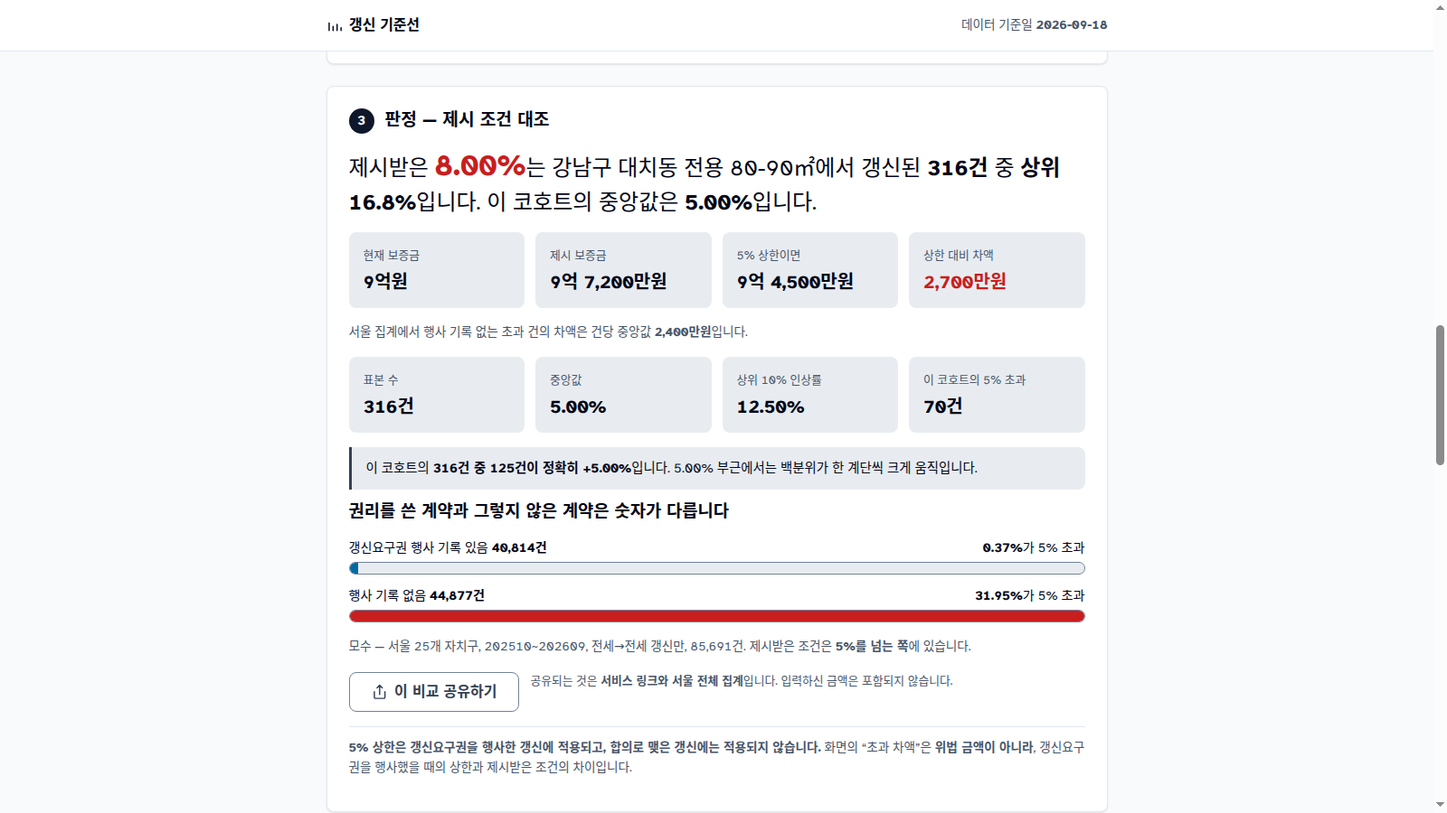
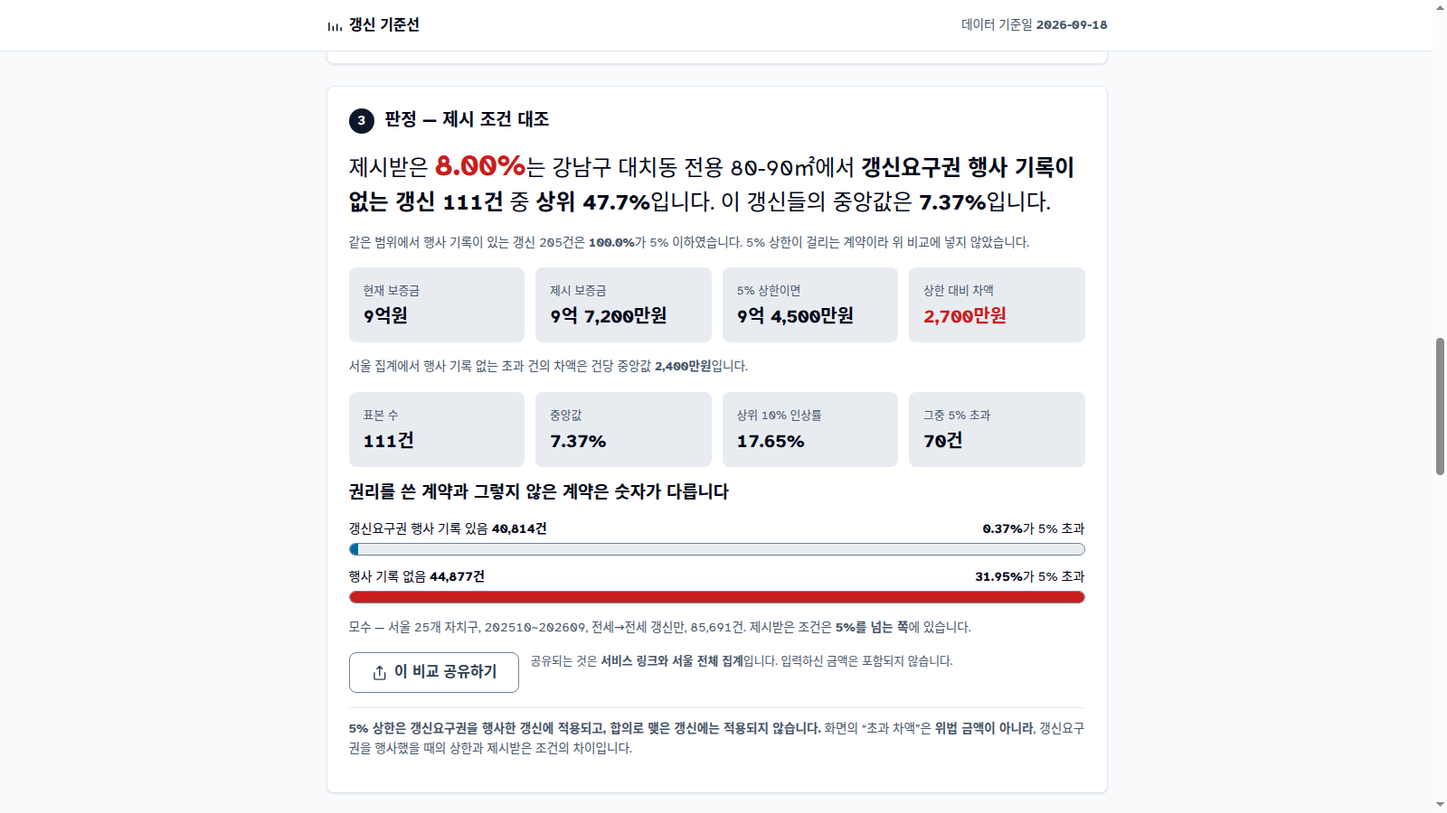
수정: 마감은 대응일의 전날 · 백분위는 행사 기록 없는 갱신 안에서
2026-10-25 검토에서 나온 P0 두 건. 둘 다 사용자가 행동을 정하는 숫자였고,
검사는 전부 통과하고 있었다 — 기대값을 코드와 같은 사람이 썼기 때문이다.

마감일이 하루 늦었다 (R6)
- 만기 12-20 의 마감을 10-20(대응일)으로 냈고, 10-20 당일에 "오늘이 마지막입니다"라고
  썼다. 바깥 해석 셋이 모두 대응일의 전날이다: 서울시 마을변호사 "만료일 9/30 →
  8/29까지", 국토부 인용 보도 "1월 9일 → 12월 9일 0시 전까지", 2개월 기준 해설
  "12/15 → 10/14". 판례는 찾지 못했다. 되돌릴 수 없는 기한이라 이른 쪽을 안내한다.
- r6Window 의 deadline 과 옛 기준 alt 를 하루 앞당겼다. 창 시작일은 그대로다.
- test_rules 가 바깥 예시 세 건을 기대값으로 대조한다(출처를 주석에 적었다).
- 화면·캘린더 문구에 "이 날까지 임대인에게 도달" 과 여유를 두라는 한 줄을 붙였다.

대표 백분위가 두 법적 체제를 섞었다 (R3, O-01)
- 행사 기록 있는 갱신(5% 상한이 걸린 계약)을 같은 분포에 넣어, 데모의 +8% 가
  "316건 중 상위 16.8%" 로 나왔다. 행사 기록 없는 111건 안에서는 47.7%, 거의
  중앙값이다. 서울 6,829개 코호트에서 이 차이는 중앙값 13.9%p 였다.
- r3Percentile 과 폴백 사다리가 행사 기록 없는 갱신(rec.nr)만 센다(rateN).
  비교에서 뺀 쪽은 "같은 범위의 행사 기록 있는 n건은 m%가 5% 이하" 로 화면에 남긴다.
  회신 문안의 코호트 문장도 같은 숫자와 라벨을 쓴다.
- SPEC O-01 이 정한 동작이 구현돼 있지 않았다. 이제 "이미 행사함"이면 5% 상한 카드와
  "행사한다" 경로를 바꾸고, 문안에서 제7조·제6조의3 문장을 뺀다.

집계 자산
- anchors.ladder 를 같은 표본(행사 기록 없음)으로 다시 셌고 유형별 사다리를 실었다.
  1단계 59.56% → 46.95%. 문서의 사다리 수치를 전부 새 값으로 고쳤다.
- --from-cache 가 기준일을 수집일이 아니라 재집계한 날로 찍던 잠재 결함을 고쳤다.
  캐시로 다시 만든 샤드 25개와 index.json 은 바이트 단위로 같고 anchors 만 바뀐다.
- 05-TEST G17 은 원래 정의와도 맞지 않았다([500,500,800] 에서 5% 는 동률 포함 100%).

검증: ./scripts/test_all.sh — 전부 통과 (rules 34 · verify 13 · contrast 36쌍 ·
anchors 716 · source 24). 로컬 브라우저로 데모와 "이미 행사함" 경로, 문안 폴백을 확인했고
판정 스크린샷을 다시 찍었다. 배포는 아직이다. 새 모델 호출 0회.

Changed region(s): [[0.2188, 0.1867, 0.75, 0.9644]]

diff --git a/dist/assets/app.js b/dist/assets/app.js
@@ -1,6 +1,6 @@
 /* 갱신 기준선 — 화면. 판정 산술은 rules.js 가 하고 여기서는 읽고 그린다.
  * 판정 경로에 네트워크가 없다. 정적 자산을 받은 뒤로는 전부 브라우저 안에서 끝난다. */
-import * as R from "./rules.js?v=2";
+import * as R from "./rules.js?v=3";
 
 const $ = (s, r = document) => r.querySelector(s);
 const $$ = (s, r = document) => [...r.querySelectorAll(s)];
@@ -201,7 +201,7 @@ function decide(i) {
   if (i.kind === "단독다가구") v.flags.push("M-05");
 
   const key = { kind: i.kind, sgg: i.gu, umd: i.umd, seq: i.seq, area: i.area };
-  const wr = R.widen(S.shard.cohorts, key, R.MIN_N_RATE, (r) => R.ratesOf(r).length);
+  const wr = R.widen(S.shard.cohorts, key, R.MIN_N_RATE, R.rateN);   // 표본은 행사 기록이 없는 갱신(R3)
   v.trail = wr.trail;
   if (!wr.rec) { v.mode = wr.trail.every((t) => t.n === 0) ? "M-08" : "M-09"; return finish(v); }
 
@@ -298,7 +298,7 @@ function renderTimeline(v) {
   $("#s2").hidden = false;
   const rows = [
     [w.start, "갱신 요구 기간이 열립니다", "만기 6개월 전"],
-    [w.deadline, "갱신 요구 마감", "만기 2개월 전 — 이 날짜가 지나면 이번 만기에는 권리를 쓸 수 없습니다"],
+    [w.deadline, "갱신 요구 마감", "이 날까지 임대인에게 <b>도달</b>해야 합니다(만기 2개월 전 대응일의 전날). 내용증명은 도달까지 며칠 걸리니 여유를 두세요"],
     [i.expiry, "계약 만기", ""],
   ];
   const tl = el("ul", "tl");
@@ -319,7 +319,9 @@ function renderTimeline(v) {
     : `<div class="dl${w.d_day <= 14 ? " urgent" : ""}"><span class="dd">${w.d_day === 0 ? "오늘이 마지막입니다" : `D-${w.d_day}`}</span><span>갱신 요구 마감 <b>${R.fmtDate(w.deadline)}</b>${w.d_day === 0 ? "" : ` — 남은 기간 ${w.d_day}일`}</span></div>`;
 
   const paths = [
-    ["갱신요구권을 행사한다", `마감까지 의사표시가 도달하면 기록이 남습니다. 서울 집계에서 행사 기록이 있는 ${R.fmtN(S.anchors?.recorded.n)}건 중 5% 초과는 ${R.fmtPct(S.anchors?.recorded.over5)}입니다.`],
+    ["갱신요구권을 행사한다", i.used === "예"
+      ? "같은 주택에서 1회 한정입니다. 이미 행사하셨다면 이번 만기에는 다시 쓸 수 없습니다."
+      : `마감까지 의사표시가 도달하면 기록이 남습니다. 서울 집계에서 행사 기록이 있는 ${R.fmtN(S.anchors?.recorded.n)}건 중 5% 초과는 ${R.fmtPct(S.anchors?.recorded.over5)}입니다.`],
     ["합의로 갱신한다", `5% 상한이 적용되지 않습니다. 행사 기록이 없는 ${R.fmtN(S.anchors?.unrecorded.n)}건 중 ${R.fmtPct(S.anchors?.unrecorded.over5)}가 5%를 넘겼습니다.`],
     ["아무것도 하지 않는다", "마감이 지나면 이번 만기에는 권리를 쓸 수 없습니다. 되돌릴 수 없는 유일한 칸입니다."],
   ];
@@ -328,39 +330,45 @@ function renderTimeline(v) {
 
 function renderVerdict(v) {
   const i = v.input, c = v.cohort, head = $("#verdict");
+  const usedUp = i.used === "예";   // O-01 — 이미 행사했다면 이번 갱신에는 5% 상한이 걸리지 않는다
   head.innerHTML = "";
   if (v.rate?.error) { head.innerHTML = `<p class="headline">인상률을 계산할 수 없습니다.</p>`; }
   else if (v.rate) {
     const over = v.rate.is_over_cap;
     head.append(el("p", "headline", c
-      ? `제시받은 <span class="big${over ? " over" : ""}">${R.fmtPct(v.rate.rate_pct)}</span>는 ${esc(cohortLabel(v))}에서 갱신된 <b>${R.fmtN(c.n)}건</b> 중 <b>상위 ${R.fmtPct(c.top_share_pct, 1)}</b>입니다. 이 코호트의 중앙값은 <b>${R.fmtPct(c.median_pct)}</b>입니다.`
+      ? `제시받은 <span class="big${over ? " over" : ""}">${R.fmtPct(v.rate.rate_pct)}</span>는 ${esc(cohortLabel(v))}에서 <b>갱신요구권 행사 기록이 없는 갱신 ${R.fmtN(c.n)}건</b> 중 <b>상위 ${R.fmtPct(c.top_share_pct, 1)}</b>입니다. 이 갱신들의 중앙값은 <b>${R.fmtPct(c.median_pct)}</b>입니다.`
       : `제시받은 인상률은 <span class="big${over ? " over" : ""}">${R.fmtPct(v.rate.rate_pct)}</span>입니다.`));
+    // 비교에서 뺀 쪽을 숨기지 않는다. 섞으면 같은 제시가 훨씬 드물어 보인다(R3).
+    if (c?.recorded)
+      head.append(el("p", "mine", `같은 범위에서 행사 기록이 있는 갱신 ${R.fmtN(c.recorded.n)}건은 <b>${R.fmtPct(c.recorded.within_cap_pct, 1)}</b>가 5% 이하였습니다. 5% 상한이 걸리는 계약이라 위 비교에 넣지 않았습니다.`));
     const f = el("ul", "facts");
     f.innerHTML = `
       <li><span class="k">현재 보증금</span><span class="v">${R.fmtMoney(i.dep)}</span></li>
-      <li><span class="k">제시 보증금</span><span class="v">${R.fmtMoney(i.odep)}</span></li>
-      <li><span class="k">5% 상한이면</span><span class="v">${R.fmtMoney(v.cap.deposit)}</span></li>
-      <li><span class="k">${v.cap.over ? "상한 대비 차액" : "상한 이내"}</span><span class="v ${v.cap.over ? "over" : "ok"}">${v.cap.over ? R.fmtMoney(v.cap.excess) : "초과 없음"}</span></li>`;
+      <li><span class="k">제시 보증금</span><span class="v">${R.fmtMoney(i.odep)}</span></li>`
+      + (usedUp
+        ? `<li><span class="k">5% 상한</span><span class="v">이번 갱신에는 적용되지 않음</span></li>`
+        : `<li><span class="k">5% 상한이면</span><span class="v">${R.fmtMoney(v.cap.deposit)}</span></li>
+      <li><span class="k">${v.cap.over ? "상한 대비 차액" : "상한 이내"}</span><span class="v ${v.cap.over ? "over" : "ok"}">${v.cap.over ? R.fmtMoney(v.cap.excess) : "초과 없음"}</span></li>`);
     head.append(f);
-    if (v.cap.over && S.anchors)
+    if (v.cap.over && S.anchors && !usedUp)
       head.append(el("p", "mine", `서울 집계에서 행사 기록 없는 초과 건의 차액은 건당 중앙값 <b>${R.fmtMoney(S.anchors.excess_median)}</b>입니다.`));
   }
 
   const co = $("#cohort"); co.innerHTML = "";
   if (c) {
     if (c.widened)
-      co.append(el("p", "trail", "표본이 모자라 범위를 넓혔습니다 — " +
+      co.append(el("p", "trail", "행사 기록이 없는 갱신이 모자라 범위를 넓혔습니다 — " +
         v.trail.map((t) => `${t.label} <b>${R.fmtN(t.n)}건</b>`).join(" → ") +
         `. <b>이 숫자는 ${R.LEVELS[c.level]} 기준입니다.</b>`));
     co.append(el("ul", "facts", `
       <li><span class="k">표본 수</span><span class="v">${R.fmtN(c.n)}건</span></li>
       <li><span class="k">중앙값</span><span class="v">${R.fmtPct(c.median_pct)}</span></li>
       <li><span class="k">상위 10% 인상률</span><span class="v">${R.fmtPct(c.p90_pct)}</span></li>
-      <li><span class="k">이 코호트의 5% 초과</span><span class="v">${R.fmtN(c.over_cap_n)}건</span></li>`));
+      <li><span class="k">그중 5% 초과</span><span class="v">${R.fmtN(c.over_cap_n)}건</span></li>`));
     if (c.tie_at_cap_n / c.n >= 0.2)
-      co.append(el("p", "tie", `이 코호트의 <b>${R.fmtN(c.n)}건 중 ${R.fmtN(c.tie_at_cap_n)}건이 정확히 +5.00%</b>입니다. 5.00% 부근에서는 백분위가 한 계단씩 크게 움직입니다.`));
+      co.append(el("p", "tie", `이 갱신 <b>${R.fmtN(c.n)}건 중 ${R.fmtN(c.tie_at_cap_n)}건이 정확히 +5.00%</b>입니다. 5.00% 부근에서는 백분위가 한 계단씩 크게 움직입니다.`));
   } else if (v.trail) {
-    co.append(el("p", "trail", "각 단계 건수 — " + v.trail.map((t) => `${t.label} <b>${R.fmtN(t.n)}건</b>`).join(" → ")));
+    co.append(el("p", "trail", "행사 기록이 없는 갱신의 단계별 건수 — " + v.trail.map((t) => `${t.label} <b>${R.fmtN(t.n)}건</b>`).join(" → ")));
   }
 
   const g = $("#groups"); g.innerHTML = "";
@@ -474,7 +482,7 @@ function renderGates(v) {
 function factsOf(v) {
   const i = v.input;
   return {
-    asof: v.asof, choice: S.choice,
+    asof: v.asof, choice: S.choice, used_up: i.used === "예",
     deadline: isoDate(v.window.deadline), deadline_ko: R.fmtDate(v.window.deadline), d_day: v.window.d_day,
     cur_deposit_manwon: i.dep, new_deposit_manwon: i.odep, monthly_manwon: i.orent,
     rate_pct: v.rate?.rate_pct ?? null,
@@ -494,14 +502,16 @@ function bodyLines(f) {
   const L = [];
   if (f.rate_pct != null) {
     L.push(`제시하신 조건은 현재 보증금 ${R.fmtMoney(f.cur_deposit_manwon)}에서 ${R.fmtMoney(f.new_deposit_manwon)}으로 ${R.fmtPct(f.rate_pct)} 인상입니다.`);
-    L.push(`주택임대차보호법 제7조의 20분의 1 기준을 적용하면 ${R.fmtMoney(f.cap_deposit_manwon)}입니다.`
-      + (f.excess_manwon > 0 ? ` 제시하신 금액과의 차이는 ${R.fmtMoney(f.excess_manwon)}입니다.` : ""));
+    // 이미 행사했다면 이번 갱신에는 제7조의 상한도, 제6조의3 의 요구 기간도 걸리지 않는다(O-01)
+    if (!f.used_up)
+      L.push(`주택임대차보호법 제7조의 20분의 1 기준을 적용하면 ${R.fmtMoney(f.cap_deposit_manwon)}입니다.`
+        + (f.excess_manwon > 0 ? ` 제시하신 금액과의 차이는 ${R.fmtMoney(f.excess_manwon)}입니다.` : ""));
   }
   if (f.cohort)
-    L.push(`국토교통부 전월세 실거래가 공개자료(기준일 ${f.asof})에서 ${f.cohort.label}의 갱신 계약 ${R.fmtN(f.cohort.n)}건을 보면, 인상률 중앙값은 ${R.fmtPct(f.cohort.median_pct)}이고 상위 10%는 ${R.fmtPct(f.cohort.p90_pct)}입니다. 제시하신 조건은 이 가운데 상위 ${R.fmtPct(f.cohort.top_share_pct, 1)}에 해당합니다.`);
+    L.push(`국토교통부 전월세 실거래가 공개자료(기준일 ${f.asof})에서 ${f.cohort.label}의 갱신요구권 행사 기록이 없는 갱신 계약 ${R.fmtN(f.cohort.n)}건을 보면, 인상률 중앙값은 ${R.fmtPct(f.cohort.median_pct)}이고 상위 10%는 ${R.fmtPct(f.cohort.p90_pct)}입니다. 제시하신 조건은 이 가운데 상위 ${R.fmtPct(f.cohort.top_share_pct, 1)}에 해당합니다.`);
   if (f.market)
     L.push(`같은 조건의 신규 전세 보증금 중앙값은 ${R.fmtMoney(f.market.new_median_manwon)}입니다(신규 표본 ${R.fmtN(f.market.n)}건).`);
-  L.push(`주택임대차보호법 제6조의3에 따른 갱신 요구 기간은 ${f.deadline_ko}까지입니다.`);
+  if (!f.used_up) L.push(`주택임대차보호법 제6조의3에 따른 갱신 요구 기간은 ${f.deadline_ko}까지입니다.`);
   return L;
 }
 
@@ -645,7 +655,7 @@ function downloadICS(v) {
     `UID:${stamp(d)}-gaengsin@local`, `DTSTAMP:${stamp(today())}T000000Z`,
     `DTSTART;VALUE=DATE:${stamp(d)}`, `DTEND;VALUE=DATE:${stamp(end)}`,
     "SUMMARY:갱신요구권 행사 마감일",
-    "DESCRIPTION:이 날짜가 지나면 이번 만기에는 갱신요구권을 행사할 수 없습니다.",
+    "DESCRIPTION:이 날까지 임대인에게 도달해야 합니다. 지나면 이번 만기에는 갱신요구권을 행사할 수 없습니다.",
     "BEGIN:VALARM", "TRIGGER:-P7D", "ACTION:DISPLAY", "DESCRIPTION:갱신 요구 마감 7일 전", "END:VALARM",
     "END:VEVENT", "END:VCALENDAR",
   ].join("\r\n");

diff --git a/dist/assets/rules.js b/dist/assets/rules.js
@@ -170,8 +170,8 @@ export function keysFor({ kind, sgg, umd, seq, area }) {
   return ks;
 }
 
-/** 병합된 인상률 벡터(0.01%p 단위 정수, 오름차순). */
-export const ratesOf = (rec) => [...(rec.rr || []), ...(rec.nr || [])].sort((a, b) => a - b);
+/** R3 의 표본 수 — 행사 기록이 없는 갱신만 센다. 폴백 사다리도 이 건수로 탄다(r3Percentile 과 한 쌍). */
+export const rateN = (rec) => (rec.nr || []).length;
 
 /**
  * 폴백 사다리. 위 단계부터 내려가며 표본이 minN 이상인 첫 레코드를 쓴다.
@@ -217,7 +217,11 @@ export function r2Cap(prev, now) {
 }
 
 /* ── R3. 코호트 백분위 ─────────────────────────────────────────────────────
- * "상위 X%" 는 나보다 크거나 같은 계약의 비율(동률 포함)이다.
+ * "상위 X%" 는 **행사 기록이 없는 갱신**(rec.nr) 안에서 나보다 크거나 같은 계약의 비율(동률 포함)이다.
+ * 행사 기록이 있는 갱신(rec.rr)은 섞지 않는다. 5% 상한이 걸린 계약이라 섞으면 제시안이 실제보다
+ * 드물어 보인다 — 대치동 전용 80-90㎡ 의 +8% 가 합치면 316건 중 상위 16.8%, 행사 기록 없는 111건
+ * 안에서는 47.7% 였다(2026-10-25 검토). 권리를 쓸 수 있는 사람에게는 상한 5% 가 답이고,
+ * 쓸 수 없는 사람이 견줄 대상은 행사 기록이 없는 쪽이다.
  * 비교는 교차 곱으로 한다 — 벡터가 0.01%p 정수라 부동소수를 섞으면 동률이 깨진다.
  *
  * 5% 초과·동률 건수는 벡터에서 세지 않고 레코드의 ro/no/rt/nt 를 그대로 쓴다.
@@ -225,18 +229,19 @@ export function r2Cap(prev, now) {
  * (실측: 행사 기록 있는 갱신의 초과가 0.37% → 0.01% 로 바뀐다).
  * 빌드가 정수 비교로 센 값을 실어 보내야 R1 의 판정과 코호트가 같은 말을 한다. */
 export function r3Percentile(rec, prev, now) {
-  const vec = ratesOf(rec), n = vec.length;
+  const vec = rec.nr || [], n = rateN(rec);
   if (n < MIN_N_RATE) return { need_widen: true, n };
   const above = vec.filter((r) => r * prev >= (now - prev) * 10000).length;
+  const rr = (rec.rr || []).length;
   return {
     n,
     median_pct: nearestRank(vec, 50) / 100,
     p90_pct: nearestRank(vec, 90) / 100,
     top_share_pct: round1((above / n) * 100),
-    tie_at_cap_n: (rec.rt || 0) + (rec.nt || 0),
-    over_cap_n: (rec.ro || 0) + (rec.no || 0),
-    recorded: rec.rr ? { n: rec.rr.length, over_cap_n: rec.ro || 0 } : null,
-    unrecorded: rec.nr ? { n: rec.nr.length, over_cap_n: rec.no || 0 } : null,
+    tie_at_cap_n: rec.nt || 0,
+    over_cap_n: rec.no || 0,
+    // 비교에서 뺀 쪽. 왜 뺐는지 화면에 적으려고 같은 범위의 건수와 5% 이하 비율만 싣는다.
+    recorded: rr ? { n: rr, within_cap_pct: round1(((rr - (rec.ro || 0)) / rr) * 100) } : null,
   };
 }
 
@@ -284,7 +289,13 @@ export function depositLooksOff(deposit, cohortMedian) {
 }
 
 /* ── R6. 법정 기한 타임라인 ────────────────────────────────────────────────
- * 개월 단위 계산이 정답이고 D-180/D-60 표기는 보조다. 말일은 그 달의 마지막 날로 맞춘다. */
+ * 개월 단위 계산이 정답이고 D-180/D-60 표기는 보조다. 말일은 그 달의 마지막 날로 맞춘다.
+ *
+ * 마감은 대응일이 아니라 **그 전날**이다. "2개월 전까지"는 대응일 0시 전까지라서 대응일 당일에
+ * 도달하면 이미 늦다. 기대값은 바깥 해석에서 가져왔다(확인 2026-10-25, scripts/test_rules.mjs R6):
+ * 서울시 마을변호사 "만료일 9월 30일 → 1개월 전인 8월 29일까지 도달", 국토부 인용 보도
+ * "만기 1월 9일 → 12월 9일 0시 전까지". 판례는 찾지 못했다. 되돌릴 수 없는 기한이라 이른 쪽으로 안내한다.
+ * 예전 구현은 대응일을 마감으로 냈고, 검증 표도 같은 사람이 써서 하루 늦은 마감이 통과했다. */
 export const daysInMonth = (y, m) => new Date(y, m, 0).getDate();   // m 은 1-12
 
 export function minusMonths(d, m) {
@@ -298,11 +309,13 @@ const dayDiff = (a, b) =>
   Math.round((Date.UTC(a.getFullYear(), a.getMonth(), a.getDate()) -
               Date.UTC(b.getFullYear(), b.getMonth(), b.getDate())) / DAY);
 
+const dayBefore = (d) => new Date(d.getFullYear(), d.getMonth(), d.getDate() - 1);
+
 export function r6Window(expiry, today, signed = null) {
-  const start = minusMonths(expiry, 6);
-  let deadline = minusMonths(expiry, 2), note = null;
+  const start = minusMonths(expiry, 6);           // 창은 대응일 0시에 열린다
+  let deadline = dayBefore(minusMonths(expiry, 2)), note = null;
   if (signed && signed < new Date(2020, 11, 10)) {
-    const alt = minusMonths(expiry, 1);          // 2020-12-10 이전 체결분의 옛 기준
+    const alt = dayBefore(minusMonths(expiry, 1));   // 2020-12-10 이전 체결분의 옛 기준
     note = { alt_deadline: alt, text: "기준이 다를 수 있어 두 날짜를 모두 표시합니다" };
     if (alt < deadline) deadline = alt;           // 보수적으로 이른 날짜를 마감으로 안내한다
   }

diff --git a/dist/index.html b/dist/index.html
@@ -397,6 +397,6 @@
   </p>
 </footer>
 
-<script type="module" src="assets/app.js?v=2"></script>
+<script type="module" src="assets/app.js?v=3"></script>
 </body>
 </html>

diff --git a/scripts/build_assets.py b/scripts/build_assets.py
@@ -305,7 +305,8 @@ def anchors(renew, rows, asof, months, dropped, errs, zeros):
         g = [r for r in renew if r["kind"] == kind]
         by_kind[kind] = {"n": len(g),
                          "rr": summary([r for r in g if r["rr"]]),
-                         "nr": summary([r for r in g if not r["rr"]])}
+                         "nr": summary([r for r in g if not r["rr"]]),
+                         "ladder": ladder(g)}   # 키에 유형이 들어 있어 유형별로 따로 세도 같다
     rr = [r for r in renew if r["rr"]]
     nr = [r for r in renew if not r["rr"]]
     return {
@@ -329,18 +330,21 @@ def anchors(renew, rows, asof, months, dropped, errs, zeros):
 
 
 def ladder(renew):
-    """갱신 계약이 폴백 사다리의 몇 단계에서 표본 3건을 만나는가(02-SPEC §3.6).
+    """갱신 계약이 폴백 사다리의 몇 단계에서 비교 표본 3건을 만나는가(02-SPEC §3.6).
 
+    비교 표본은 **행사 기록이 없는 갱신**만이다(R3). 화면이 그 건수로 사다리를 타므로 여기서도 같이 센다.
     "표본 3건 이상인 코호트 비율"은 모수를 코호트로 잡느냐 계약으로 잡느냐에 따라 값이 달라진다.
     화면이 답하는 질문은 "내 계약이 어느 단계에서 판정되나"이므로 계약을 모수로 센다."""
     buckets = {}
     for r in renew:
+        if r["rr"]:
+            continue
         for _lv, k in keys_for(r):
             buckets[k] = buckets.get(k, 0) + 1
     hit = {}
     for r in renew:
         for lv, k in keys_for(r):
-            if buckets[k] >= 3:
+            if buckets.get(k, 0) >= 3:
                 hit[lv] = hit.get(lv, 0) + 1
                 break
         else:
@@ -519,8 +523,10 @@ def selftest():
     # 초과 2건(3,000 / 1,000)의 최근접 순위 중앙값은 사사오입으로 위쪽인 3,000이다
     assert anc["excess_median"] == 3000
 
-    # 사다리: 픽스처의 갱신 3건은 전부 1단계에서 표본 3건을 만난다
-    assert anc["ladder"]["1"] == 100.0 and anc["ladder"]["none"] == 0.0
+    # 사다리: 픽스처의 갱신 3건 중 행사 기록 없는 것은 2건뿐이라 어느 단계에서도 표본 3건을 못 만난다.
+    # 행사 기록 있는 1건까지 세면 1단계 100% 가 된다 — 그것이 R3 표본을 정정하기 전의 값이었다.
+    assert anc["ladder"]["1"] == 0.0 and anc["ladder"]["none"] == 100.0
+    assert anc["by_kind"]["아파트"]["ladder"] == anc["ladder"]
     # 환산: 보증금 감액이 없는 월세 갱신(5,000 → 5,000)은 전환이 아니라 순증이라 표본이 아니다
     assert anc["convert"] is None
     conv = convert_dist([{"ctype": "갱신", "prev_rent": None, "prev_deposit": 50000,
@@ -574,6 +580,7 @@ def main(from_cache=False, retry=False):
         with gzip.open(CACHE, "rt", encoding="utf-8") as f:
             c = json.load(f)
         rows, errs, zeros, ymds = c["rows"], c["errs"], c["zeros"], c["ymds"]
+        asof = c["collected"]   # 기준일은 재집계한 날이 아니라 수집한 날이다
         print(f"# 캐시 {len(rows):,}행 (수집일 {c['collected']}), 실패 {len(errs)}")
 
     if retry and errs:

diff --git a/docs/05-TEST.md b/docs/05-TEST.md
@@ -33,7 +33,7 @@
 ```
 ./scripts/test_all.sh
 ├─ python3 scripts/build_assets.py --selftest   ② 수집·집계 (손으로 쓴 XML 픽스처 6행)
-├─ node scripts/test_rules.mjs                  ① 판정 산술·문장 읽기 32건
+├─ node scripts/test_rules.mjs                  ① 판정 산술·문장 읽기 34건
 ├─ node scripts/test_verify.mjs                 ⑤ LLM 검증층·오리진 경계 13건
 ├─ node scripts/test_contrast.mjs               ④ 색 대비 36쌍
 ├─ node scripts/test_anchors_docs.mjs           ③ 스냅샷↔문서·메타 대조·프레임워크 716건
@@ -52,7 +52,7 @@
 
 **Why.** 판정은 산술 7종뿐이고 전부 순수 함수다. 산술이 틀리면 나머지 전부가 틀린다. 그리고 입력이 숫자 몇 개뿐이라 **고정 입력–고정 출력으로 완전히 봉인할 수 있는 유일한 계층**이다.
 
-**What.** `dist/assets/rules.js` 의 R1~R7 과 표시 포맷, 폴백 사다리, 금액 입력 파싱, **붙여넣은 문장 읽기**, 평가셋 라우팅 동결, **면적 계약(F-12)** — 브라우저·서버 두 구현의 일치와 확인 줄에 마크업이 생기지 않는 것까지. 32건.
+**What.** `dist/assets/rules.js` 의 R1~R7 과 표시 포맷, 폴백 사다리, 금액 입력 파싱, **붙여넣은 문장 읽기**, 평가셋 라우팅 동결, **면적 계약(F-12)** — 브라우저·서버 두 구현의 일치와 확인 줄에 마크업이 생기지 않는 것까지. **법정 마감은 이 저장소 밖의 해석 세 건을 기대값으로 대조하고, 백분위는 실제 샤드의 데모 코호트로 대조한다**(2026-10-25). 34건.
 
 **How.** 기대값은 02-SPEC §3의 검증 표를 그대로 옮긴 것이다. 표가 바뀌면 여기가 먼저 깨져야 한다. 특히 못 박아 둔 것 넷:
 
@@ -180,14 +180,14 @@
 | G12 | 24,000 → 24,000 / 월세 60 | `NET_ADD`, 연 3.00%만 | 감액분 0 = 분모 0. 순증이지 전환이 아니다 | rules |
 | G13 | 보증금·월세 둘 다 상승 | `BOTH_UP`, 전환율 없음 | 전환이 아닌 것에 전환율을 붙이지 않는다 | rules |
 | G14 | 종전 보증금 공란 | 제외 | 인상률 정의 불가 | build |
-| G15 | 코호트 n = 2 | `need_widen`, 백분위 없음 | 표본 부족은 예외가 아니라 상시 경로 | rules |
+| G15 | 행사 기록 없는 갱신 n = 1 (행사 기록 있는 3건과 합치면 4건) | `need_widen`, 백분위 없음 | 표본 부족은 예외가 아니라 상시 경로. 행사 기록 있는 갱신은 표본을 채우지 않는다 | rules |
 | G16 | 신규 표본 n = 4 | 시세 카드 미생성 | 5건 미만은 중앙값을 내지 않는다 | rules |
-| G17 | 벡터 `[500,500,800]`, 내 값 5.00% | 상위 66.7% | "상위 X%"는 동률을 포함한다 | rules |
+| G17 | 행사 기록 없는 벡터 `[300,500,800,2000]`, 있는 벡터 `[0,500,500]`, 내 값 5.00% | 상위 75.0% (합쳤다면 71.4%) | "상위 X%"는 동률을 포함하고, 행사 기록 있는 갱신을 섞지 않는다. 2026-10-25 이전 이 행은 `[500,500,800]` 에 66.7%를 적어 정의(동률 포함이면 100%)와도 맞지 않았다 | rules |
 | G18 | 면적 50.6 / 59.99 / 60.0 | `50-60` / `50-60` / `60-70` | 겹치지 않는 10㎡ 하한 구간 | rules·build |
 | G19 | `"10,500"` / `" 60 000 "` | 10500 / 60000 | 콤마·공백 파싱 | rules |
 | G20 | `"60000.4"` / `"1e5"` / `"0x10"` / `""` | 전부 `NaN` | 금액 칸은 만원 단위 정수 표기만 | rules |
-| G21 | 만기 2026-12-20 | 창 2026-06-20, 마감 2026-10-20 | 개월 계산이 정답, D 표기는 보조 | rules |
-| G22 | 만기 2026-03-31 / 2026-04-30 | 마감 2026-01-31 / 창 2025-10-30 | 말일 보정 | rules |
+| G21 | 만기 2026-12-20 | 창 2026-06-20, 마감 2026-10-19 | 개월 계산이 정답, D 표기는 보조. 마감은 대응일의 전날이고 기대값은 바깥 해석 세 건과 대조한다(02-SPEC §3.7) | rules |
+| G22 | 만기 2026-03-31 / 2026-04-30 | 마감 2026-01-30 / 창 2025-10-30 | 말일 보정 | rules |
 | G23 | 체결일 2020-12-09 | 이른 날짜를 마감으로 안내 | 옛 기준과 현 기준 중 보수적인 쪽 | rules |
 | G24 | 종전 4 → 48,500 | 표본에서 버림, 중앙값만 사용 | 이상치가 평균을 죽인다 | build |
 | G25 | 단독다가구, 단지 식별자 없음 | 3단계부터 시작 | 원천에 없는 것을 있다고 가정하지 않는다 | rules·build |
@@ -238,7 +238,7 @@
 | M-08 결과 0건 | 다섯 단계 전부 0건 | 단계별 건수 + 판정 불가 | rules(사다리) · **배포본에서는 도달 불가** |
 | M-09 표본 부족 | 확장 후에도 n < 3 | 백분위 미표시 + 단계별 건수 | rules · **배포본에서는 도달 불가** |
 | M-11 자릿수 확인 | 보증금이 코호트 중앙값의 1/3~3배 밖 | 되묻고, 확인 전까지 그 금액에서 나온 화면을 전부 보류 | rules(R2-1) + 사람 |
-| O-01 갱신권 기사용 | 사용자 입력 "예" | 1회 한정 안내 + **입력 의존 고지** | 사람 |
+| O-01 갱신권 기사용 | 사용자 입력 "예" | 1회 한정 안내 + **입력 의존 고지** + 5% 상한 카드 "적용되지 않음"·"행사한다" 경로 1회 한정 안내·문안에서 제7조·제6조의3 문장 제외 | 사람 |
 | O-02 실거주 통보 | 사용자 입력 "실거주" | 진위 판정 없음 + 기록 양식 | 사람 |
 | O-06 순증 | 감액분 0 & 월세 > 0 | 전환율 대신 연 부담률, **분포와 비교 안 함** | rules(R7) |
 

diff --git a/README.md b/README.md
@@ -64,12 +64,14 @@
 |---|---|---|
 | 입력 | 주택 유형·자치구·법정동·건물명·전용면적·만기일·현재 보증금/월세, 제시받은 조건 — **7개 칸뿐** | 이름·연락처·동·호수·계약서 파일은 **받는 칸 자체가 없다** |
 | 기준선 | — | 갱신 요구가 열리는 날, **마감일**, 만기일. 선택지 셋(행사·합의·무행동)과 각각의 실거래 결과 |
-| 판정 | 「판정하기」 | 제시 인상률이 **같은 단지·면적대 코호트에서 상위 몇 %**인지, 5% 상한 금액과 차액, 표본 수, 행사 기록 유무별 분포 |
+| 판정 | 「판정하기」 | 제시 인상률이 **같은 단지·면적대에서 갱신요구권 행사 기록 없이 갱신된 계약들 중 상위 몇 %**인지, 5% 상한 금액과 차액, 표본 수, 행사 기록 유무별 분포. 행사 기록 있는 갱신은 5% 상한이 걸린 계약이라 백분위에 섞지 않는다 |
 | 문안 | 「이 숫자로 회신 문안 만들기」(선택) | 회신 문안. **숫자가 든 문장은 전부 코드가 쓴다** |
 
-아래는 배포본을 그대로 찍은 판정 화면이다(예시 입력: 강남구 대치동 전용 84.9㎡, 보증금 9억원, +8% 제시).
+아래는 판정 화면을 가공 없이 찍은 것이다(2026-10-25 빌드, 예시 입력: 강남구 대치동 전용 84.9㎡, 보증금 9억원, +8% 제시).
 
-![판정 화면 — 제시받은 8.00%가 강남구 대치동 전용 80-90㎡에서 갱신된 316건 중 상위 16.8%라는 문장, 현재 보증금 9억원·제시 보증금 9억 7,200만원·5% 상한 9억 4,500만원·상한 대비 차액 2,700만원 카드, 표본 316건과 중앙값 5.00%, 행사 기록 유무별 분포 막대.](docs/assets/verdict.png)
+![판정 화면 — 제시받은 8.00%가 강남구 대치동 전용 80-90㎡에서 갱신요구권 행사 기록이 없는 갱신 111건 중 상위 47.7%이고 중앙값은 7.37%라는 문장, 같은 범위의 행사 기록 있는 갱신 205건은 100.0%가 5% 이하라 비교에서 뺐다는 문장, 현재 보증금 9억원·제시 보증금 9억 7,200만원·5% 상한 9억 4,500만원·상한 대비 차액 2,700만원 카드, 표본 111건·중앙값 7.37%·상위 10% 17.65%·5% 초과 70건 카드, 행사 기록 유무별 분포 막대.](docs/assets/verdict.png)
+
+> **2026-10-25 정정.** 이전 판은 행사 기록 있는 갱신(5% 상한이 걸린 계약)까지 섞어 같은 제시를 "316건 중 상위 16.8%, 중앙값 5.00%"로 냈다. 실제로는 비교 대상인 합의 갱신들의 거의 중앙값이다. 근거는 [docs/02-SPEC.md §3.3](docs/02-SPEC.md)에 있다. 같은 날 갱신 요구 마감도 대응일에서 **그 전날**로 바로잡았다(§3.7).
 
 **끝나는 조건과 멈추는 조건.** 화면이 끝나는 방식은 전부 열거돼 있다(M-01~M-11, O-01~O-06 — [docs/02-SPEC.md §5](docs/02-SPEC.md)). 주요한 것 셋:
 
@@ -164,7 +166,7 @@ flowchart LR
 | 스크립트 | 무엇을 잡는가 | 결과 |
 |---|---|---|
 | `build_assets.py --selftest` | 전세→전세 판별, 면적 구간, 폴백 사다리, 5% 초과 집계, 자산 게이트 8종 | ok |
-| `test_rules.mjs` | 판정 산술 7종 + 규칙 파서 + 평가셋 라우팅 동결 + **면적 계약** | ok — 32건 |
+| `test_rules.mjs` | 판정 산술 7종 + 규칙 파서 + 평가셋 라우팅 동결 + **면적 계약** + **법정 마감의 바깥 기대값·데모 코호트 백분위** | ok — 34건 |
 | `test_verify.mjs` | LLM 출력 검증층, 오리진 경계, 프롬프트·스키마 해시 동결, **면적 계약·본문 바이트 상한·힌트 구성·업스트림 폴백** | ok — 13건 |
 | `test_contrast.mjs` | 색 대비. 다크모드는 스크린샷으로 안 잡혀 수치로 본다 | ok — 36쌍 |
 | `test_anchors_docs.mjs` | 스냅샷 ↔ 문서·OG 메타 대조 + **정본 다섯 문서의 Why→What→How 프레임워크**. 자산을 다시 만들면 **문서를 같이 고치기 전에는 통과하지 않는다** | ok — 716건 |

diff --git a/docs/00-GLOSSARY.md b/docs/00-GLOSSARY.md
@@ -31,7 +31,7 @@
 | **행사 기록 있음** | 갱신 행의 갱신요구권 칸에 **양성 토큰**(`사용`)이 있는 것 | |
 | **행사 기록 없음** | 갱신 행의 그 칸이 **비어 있는** 것 | 미행사로 읽지만 **근거 등급 B**다. 신고서 서식이 2지 택일이고 생산기관도 빈 값을 미사용으로 집계한다는 것이 근거이지, 직접 관측이 아니다 |
 | **코호트** | 비교 대상 묶음. `유형 \| 자치구 \| 법정동 \| 단지 \| 면적대` | 단지 단계는 **아파트에만** 있다 — 원천이 단지 일련번호를 아파트만 준다 |
-| **폴백 사다리 / 확장** | 표본 3건을 만날 때까지 코호트를 넓히는 5단계 | 예외가 아니라 갱신 계약의 40.44%가 지나는 **상시 경로**다. 어느 단계의 숫자인지 화면에 적는다 |
+| **폴백 사다리 / 확장** | 표본(행사 기록이 없는 갱신) 3건을 만날 때까지 코호트를 넓히는 5단계 | 예외가 아니라 갱신 계약의 53.05%가 지나는 **상시 경로**다. 어느 단계의 숫자인지 화면에 적는다 |
 | **모수** | 그 비율의 분모 | 값 옆에 항상 붙인다. 없으면 결함이다(02-SPEC DR4) |
 | **앵커** | 서울 전체 상수. 코호트와 무관하게 고정된 비교 기준 | `anchors.json` 이 단일 출처다 |
 | **면적대** | 전용면적의 10㎡ 하한 구간. `50-60` 은 50.00~59.99 | 단독·다가구는 전용면적이 아니라 **연면적**이다 |
@@ -43,7 +43,7 @@
 | 용어 | 뜻 |
 |---|---|
 | **판정** | 코드가 산술로 내는 결론. LLM 이 관여하지 않는다 |
-| **상위 X%** | 나보다 **크거나 같은** 계약의 비율(동률 포함) |
+| **상위 X%** | 같은 코호트의 **행사 기록이 없는 갱신** 중 나보다 **크거나 같은** 계약의 비율(동률 포함). 행사 기록 있는 갱신은 5% 상한이 걸린 계약이라 섞지 않는다 |
 | **정확히 +5.00%** | `20 × 증감액 = 종전 보증금`. **정수 비교로만 판정한다** — 실수 비교를 쓰면 이 무리가 초과로 샌다 |
 | **자릿수 사고** | 0을 하나 더 치거나 덜 친 오류. 종전과 제시가 같은 배율이면 **인상률은 정상으로 보인다** — 비율 검사로는 못 잡는다 |
 | **되묻기(M-11)** | 자릿수 사고로 보일 때 판정을 멈추고 확인받는 것. **버리기가 아니다** — 사용자가 맞다고 하면 그대로 판정한다 |
